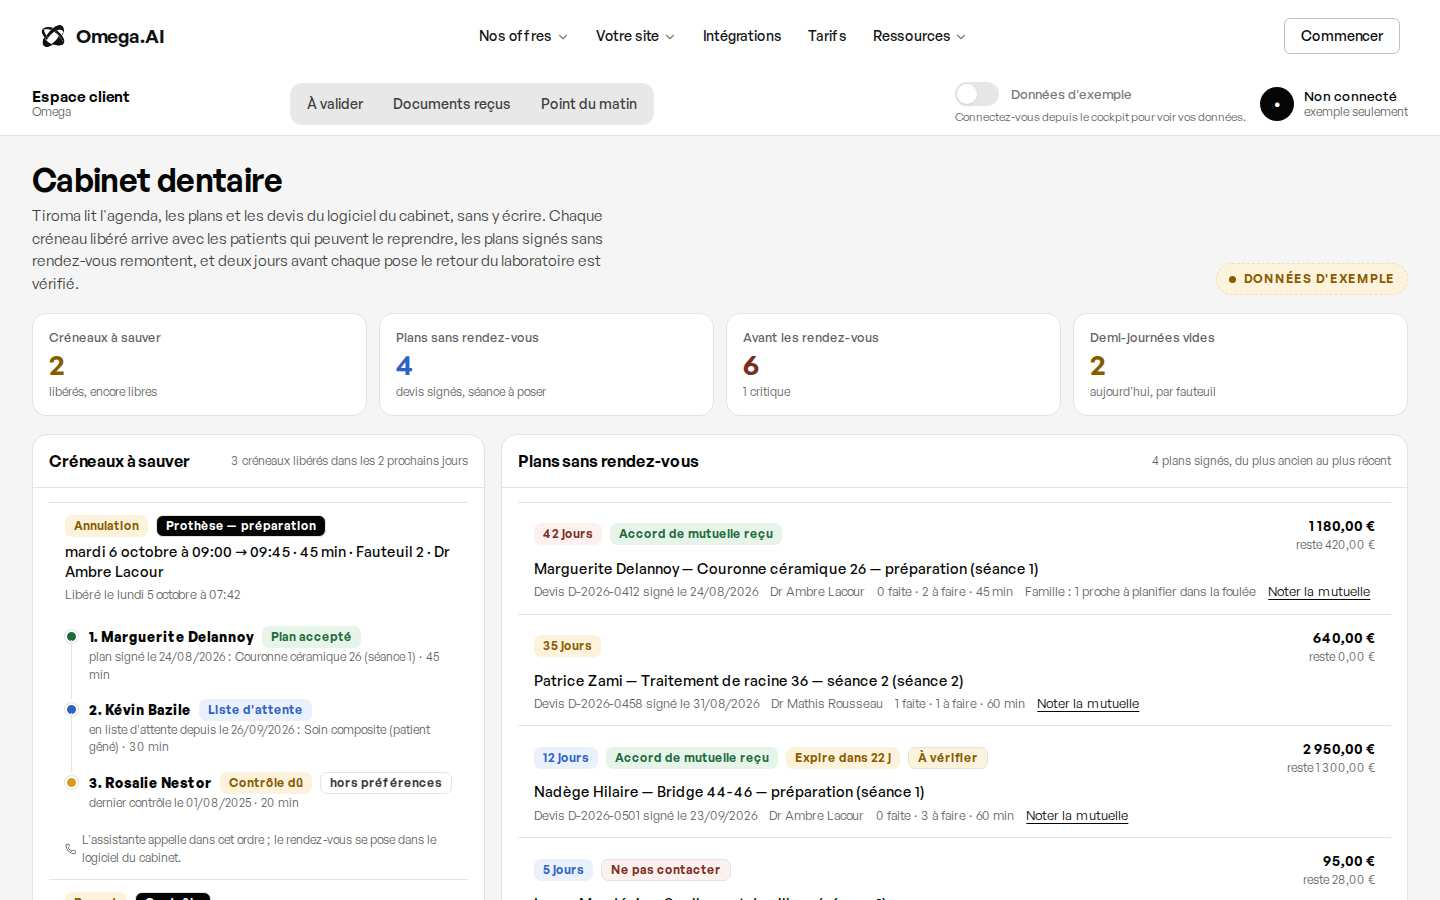
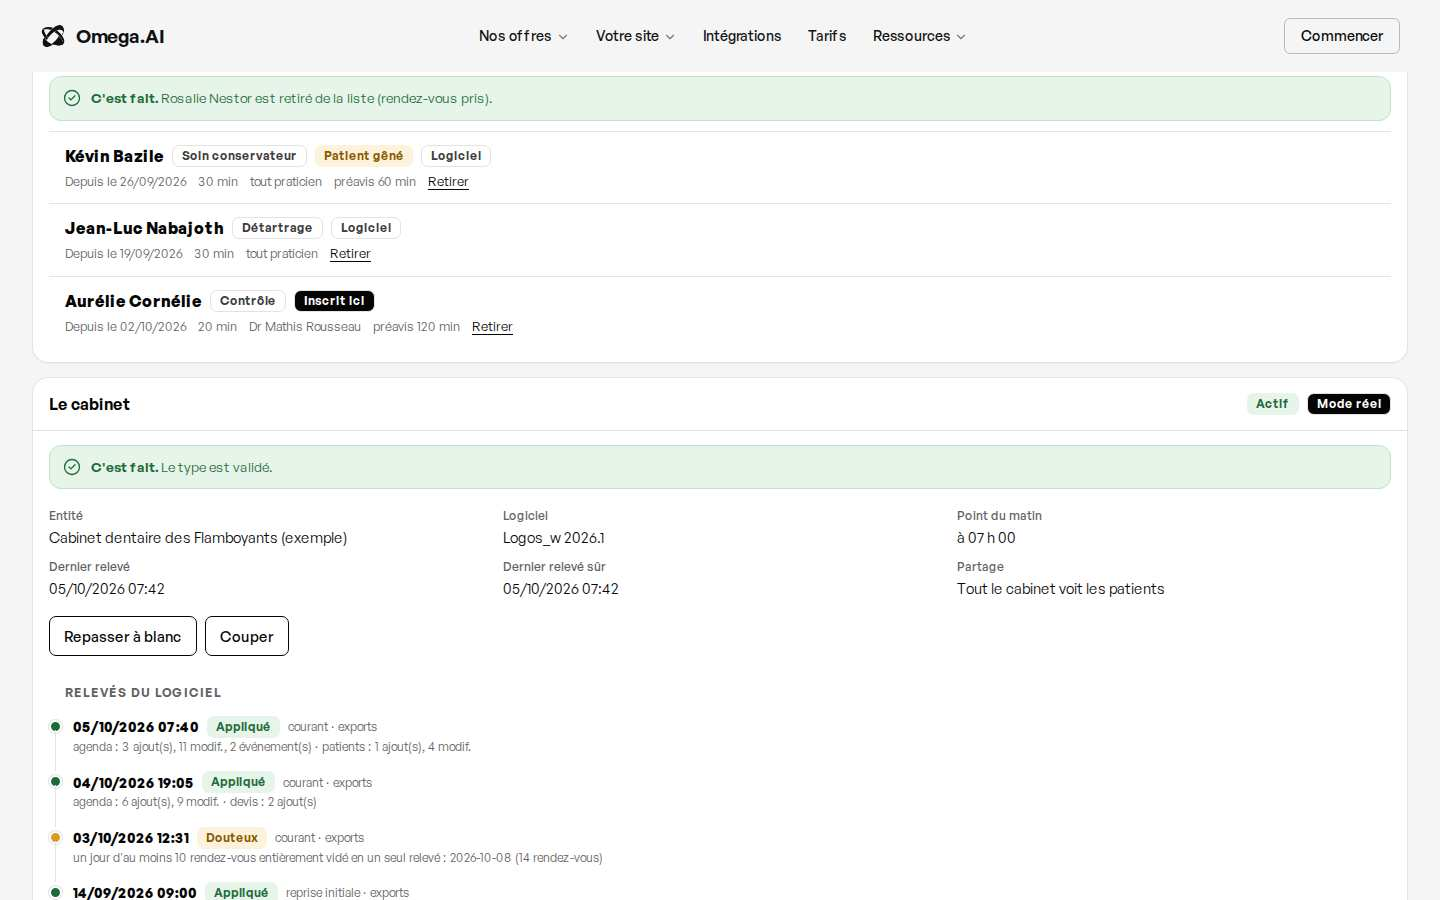
TIROMA (B3) : capture de la liste d'attente, notes
Claude-Session: https://claude.ai/code/session_01XVDbxXV3nk5ANUdd5hfZHf

diff --git a/omega/NOTES-B3.md b/omega/NOTES-B3.md
@@ -21,8 +21,8 @@ Dernière mise à jour : 06/10/2026 (reprise après la pause de Teo).
 - **Posé sur la recette** (par le coordinateur) : b3_01 (portes + droits), b3_02 à b3_05 (portes de lecture, avec variantes `_pour`), b3_06 (point du matin + cron tiroma-matin). Lot 1 (`^test_b3_0[1-4]`) : 98/98 verts.
 - **Écrit, pas encore posé** : `b3_07_mutuelle.sql` (porte `tiroma_noter_mutuelle`), `b3_08_heures_locales.sql` (correctif de `private.tiroma_v_instant` : les heures d'un export sont lues dans le fuseau du cabinet), `b3_09_liste_attente.sql` (portes `tiroma_ajouter_attente` / `tiroma_retirer_attente`), et `b3_02` à reposer (un patient, une voie).
 - **Écrit, pas encore joué** : `00b_export_logosw.sql` (export Logos_w d'exemple, dix jeux, dates relatives ; dépôt par `recevoir_releve` → `commencer_releve` → `deposer_lignes` → `terminer_lecture`, puis `avancer_releves()` et `tiroma_traiter_travaux()`), tests `05_releve_initial`, `06_releve_courant`, `07_portes_metier`, `08_point_du_matin`, `09_mesures_du_soir`, `10_retard_et_purge`, `11_liste_attente`.
-- **Prochaine étape** : le coordinateur pose b3_07 et b3_08, pose la ligne `reglages_envois (banc, tiroma, essai, sante=true)`, rejoue 00, 00b puis 05 → 08, me renvoie les sorties brutes ; je corrige jusqu'au vert. Puis : le gabarit validé du point sans santé (b3_10), l'inscription en liste d'attente depuis l'écran, la règle santé stricte du socle commun.
-- **Écran** : /espace/tiroma, « prêt à fusionner » envoyé (dernier SHA de worker-b3 : la mutuelle se note depuis la carte Plans) ; fichiers à prendre : `app/espace/tiroma/page.tsx`, `components/espace/tiroma/*` (types, exemple, portes, libelles, EcranTiroma, Creneaux, Plans, AvantRendezVous, ChargeFauteuils, Cabinet), `omega/recette-b3/*` ; ligne à ajouter dans `components/espace/ecrans.ts` : `{ cle: "tiroma", href: "/espace/tiroma", libelle: "Cabinet dentaire", court: "TIROMA" }`.
+- **Prochaine étape** : le coordinateur pose b3_07 et b3_08, pose la ligne `reglages_envois (banc, tiroma, essai, sante=true)`, rejoue 00, 00b puis 05 → 08, me renvoie les sorties brutes ; je corrige jusqu'au vert. Puis : le gabarit validé du point sans santé (b3_10, forme des gabarits demandée), la règle santé stricte du socle commun, la relecture en base réelle de l'écran avec le compte du banc (comme A3 : omega/recette-a3/relecture-reelle.mjs).
+- **Écran** : /espace/tiroma, « prêt à fusionner » envoyé (dernier SHA de worker-b3 : la mutuelle se note depuis la carte Plans, la carte « Liste d'attente » inscrit et retire un patient par les portes b3_09 ; recette 67 contrôles) ; fichiers à prendre : `app/espace/tiroma/page.tsx`, `components/espace/tiroma/*` (types, exemple, portes, libelles, EcranTiroma, Creneaux, Plans, AvantRendezVous, ChargeFauteuils, ListeAttente, Cabinet), `omega/recette-b3/*` ; ligne à ajouter dans `components/espace/ecrans.ts` : `{ cle: "tiroma", href: "/espace/tiroma", libelle: "Cabinet dentaire", court: "TIROMA" }`.
 
 ## Le scénario réel de bout en bout (ce que les tests jouent)
 
